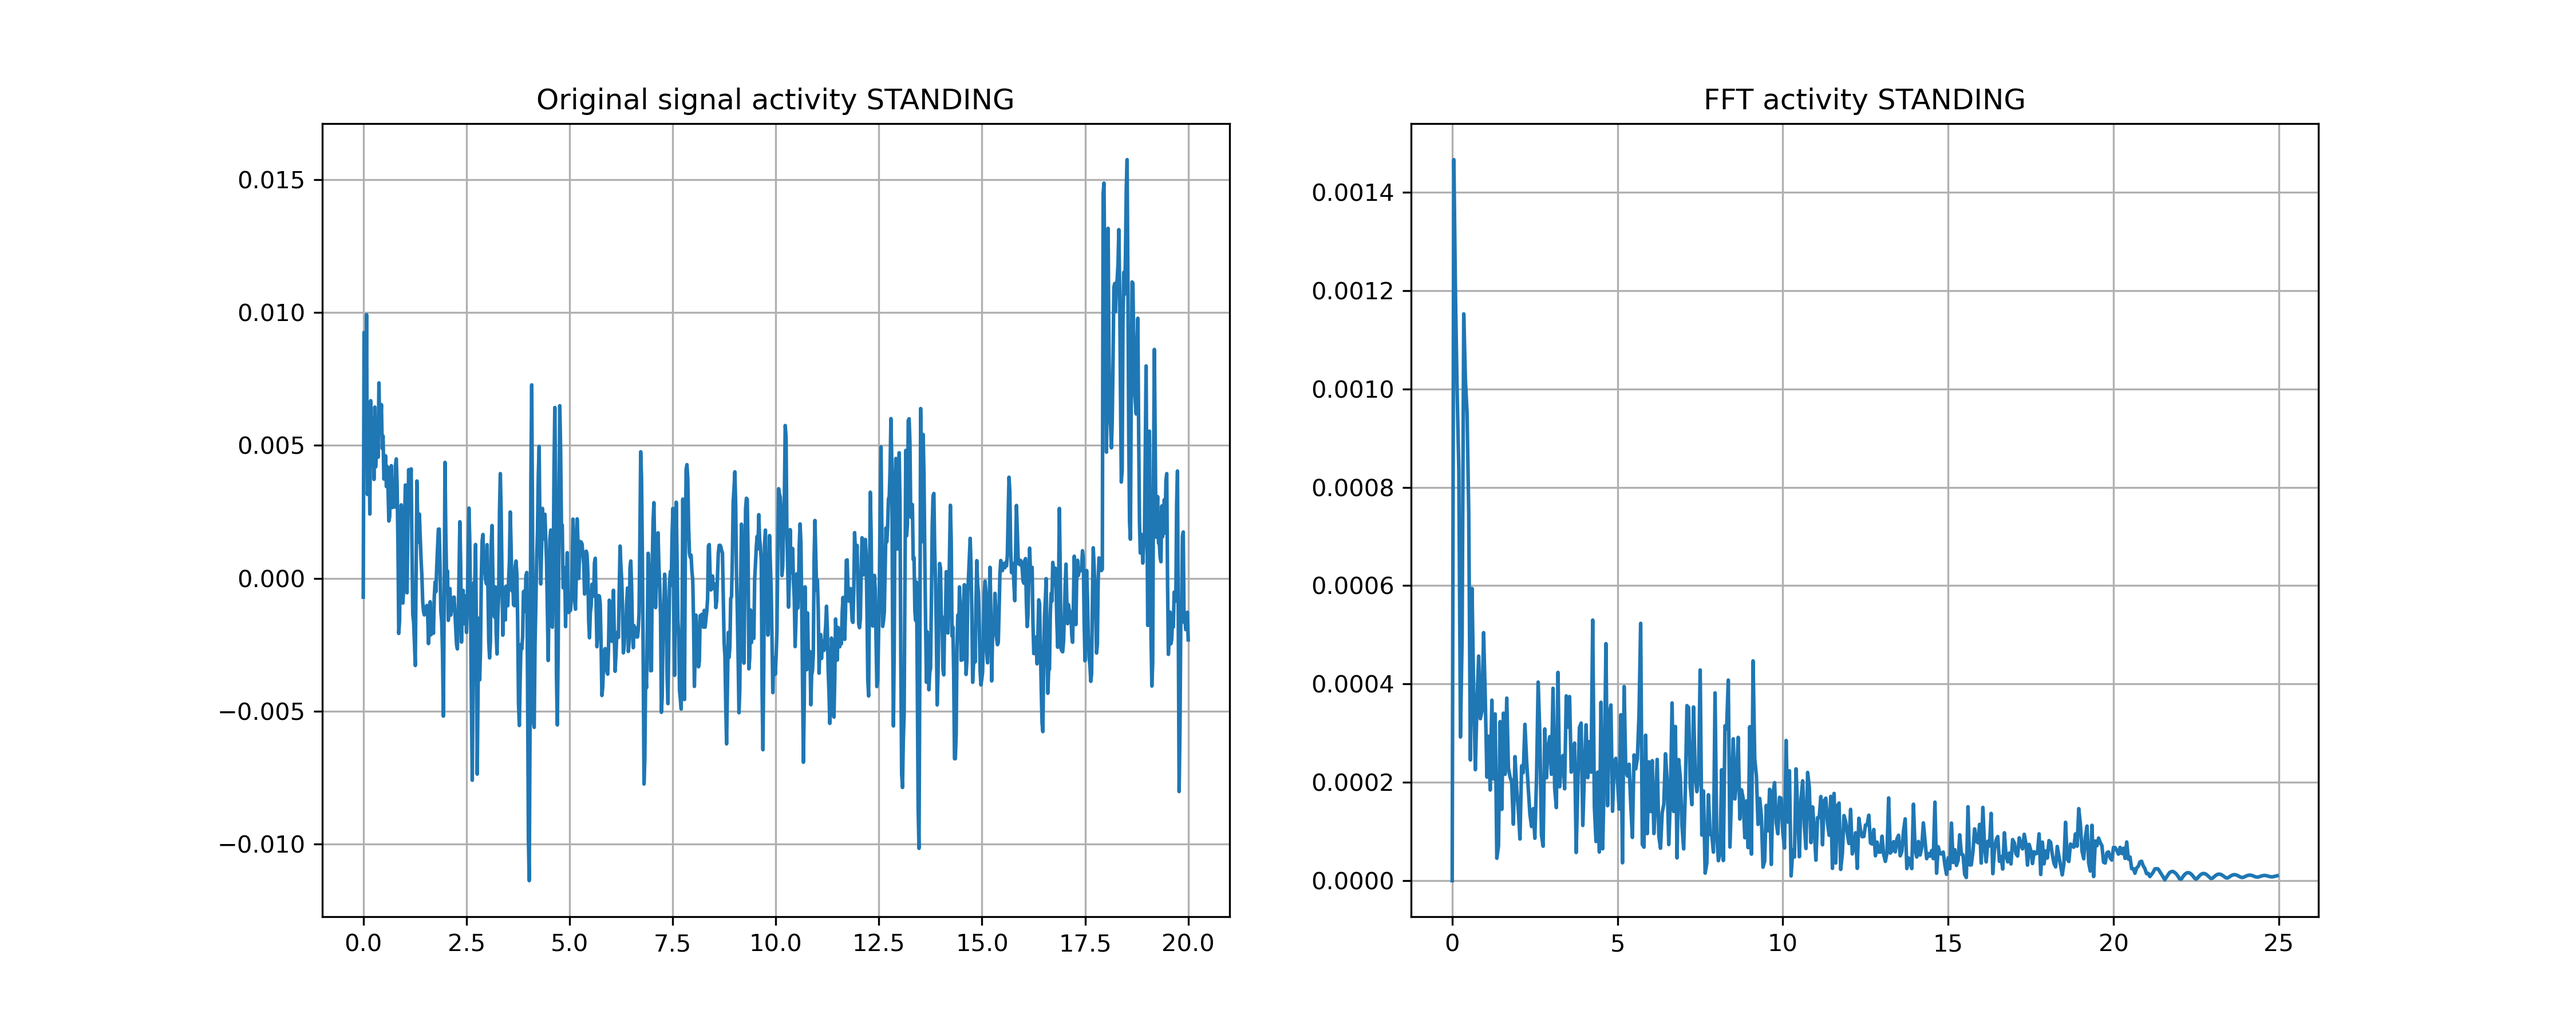
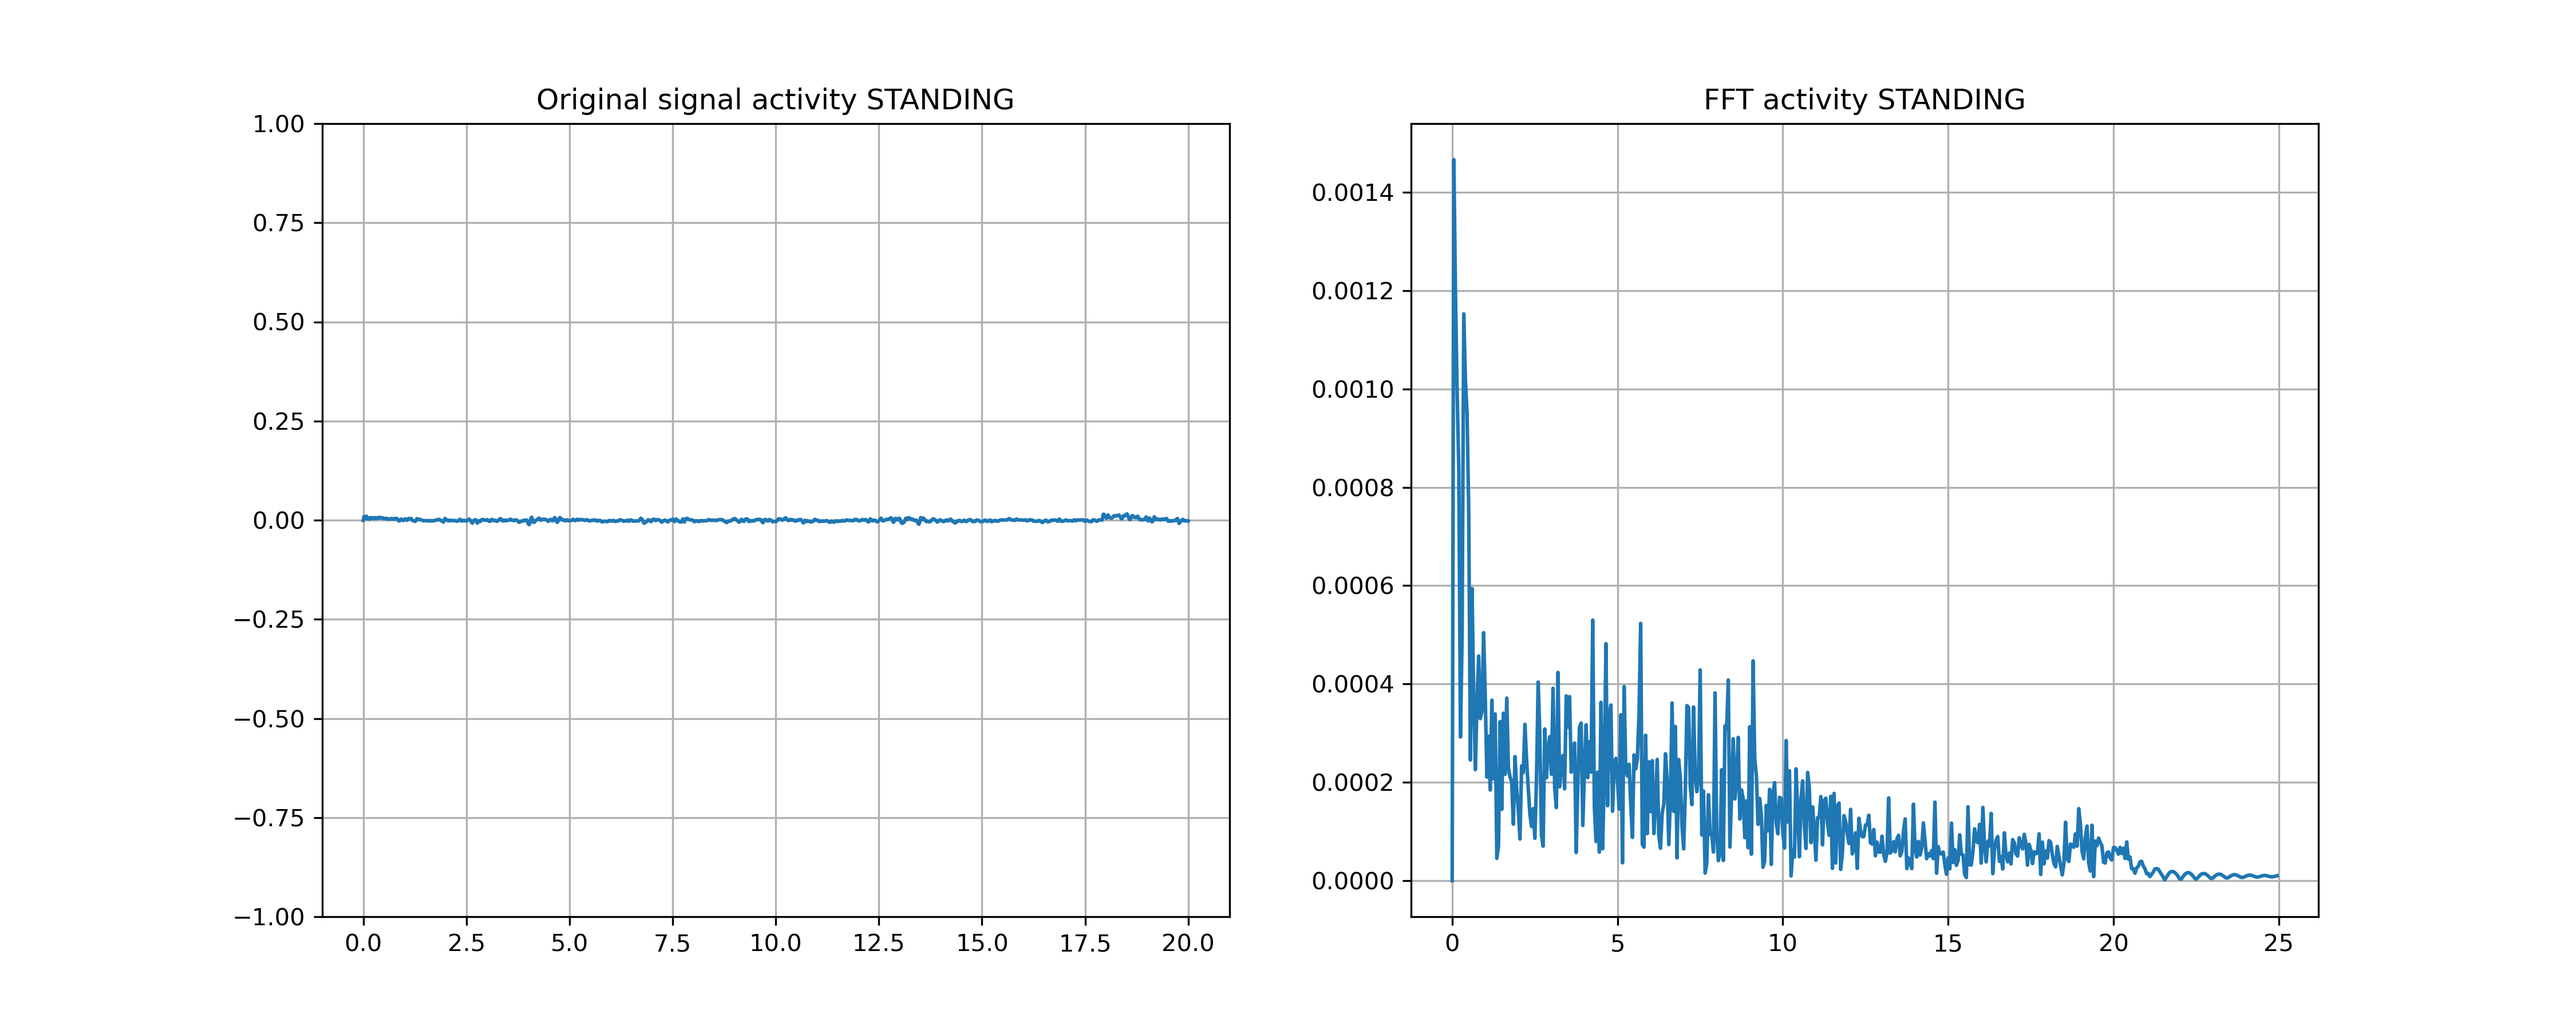
added 4.7

diff --git a/TS/4_456.py b/TS/4_456.py
@@ -3,6 +3,8 @@ import pandas as pd
 import matplotlib.pyplot as plt
 from scipy.stats import kurtosis as kurt
 from scipy.fftpack import fft
+from scipy.signal import butter
+from scipy.signal import lfilter
 
 print("[Loading data]")
 print()
@@ -106,7 +108,6 @@ print()
 ### 4.6
 print("[Exercise 4.6]")
 
-
 # Function to calculate the fft
 def calculate_fft(x, T):
     # x: list of signal points, T: sample time
@@ -136,11 +137,15 @@ for activity, signal in activities_and_signals.items():
     signal = signal - np.mean(signal)
     t = np.linspace(start=0, stop=T * np.size(signal), num=np.size(signal)) # create time axis
     f, y = calculate_fft(signal, T) # fourier transform
+
+    # Plot
     plt.figure(figsize=(15, 6))
     plt.subplot(1, 2, 1)
+    plt.plot(t, signal)  # original signal
     plt.grid(True)
     plt.title("Original signal activity %s" % activity)
-    plt.plot(t, signal)  # original signal
+    plt.ylim(-1, 1)
+
     plt.subplot(1, 2, 2)
     plt.plot(f, y)  # fft
     plt.grid(True)
@@ -148,4 +153,115 @@ for activity, signal in activities_and_signals.items():
     plt.savefig("figures/4.6_%s.png" % activity, dpi=300)
 
 print("[4.6: plots saved]")
+print()
+
+### 4.7
+print("[Exercise 4.7]")
+
+nsamples = 3000  # amount of samples to transform
+fn = fs/2  # nyquist frequency
+upper_limit = 3/fn  # upper limit cutoff frequency
+lower_limit = 0.6/fn  # lower limit cutoff frequency
+filter_order = 4  # order of the filters
+
+## Low-pass filter
+b_lp, a_lp = butter(filter_order, upper_limit, btype='lowpass', output='ba')
+i = 1
+
+plt.figure(figsize=(15, 6))
+for activity, signal in activities_and_signals.items():
+    signal = signal[0:nsamples]
+    signal = signal - np.mean(signal)
+    signal = lfilter(b_lp, a_lp, signal)
+    t = np.linspace(start=0, stop=T * np.size(signal), num=np.size(signal)) # create time axis
+    f, y = calculate_fft(signal, T) # fourier transform
+
+    # Plot filtered signal
+    plt.subplot(6, 2, i)
+    plt.grid(True)
+    plt.plot(t, signal, label=activity)  # original signal
+    plt.ylim(-1, 1)
+    plt.legend(loc="upper right")
+    if i == 1: plt.title("Low-pass filtered")
+    i +=1
+
+    # Plot frequency spectrum
+    plt.subplot(6, 2, i)
+    plt.plot(f, y, label=activity)  # fft
+    plt.grid(True)
+    plt.xlim(0, 3)
+    plt.legend(loc="upper right")
+    if i == 2: plt.title("FFT")
+    i+=1
+plt.tight_layout()
+plt.savefig("figures/4.7_lowpass.png", dpi=300)
+plt.close()
+
+## High-pass filter
+b_hp, a_hp = butter(filter_order, lower_limit, btype='highpass', output='ba')
+i = 1
+
+plt.figure(figsize=(15, 6))
+for activity, signal in activities_and_signals.items():
+    signal = signal[0:nsamples]
+    signal = signal - np.mean(signal)
+    signal = lfilter(b_hp, a_hp, signal)
+    t = np.linspace(start=0, stop=T * np.size(signal), num=np.size(signal)) # create time axis
+    f, y = calculate_fft(signal, T) # fourier transform
+
+    # Plot filtered signal
+    plt.subplot(6, 2, i)
+    plt.grid(True)
+    plt.plot(t, signal, label=activity)  # original signal
+    plt.ylim(-1, 1)
+    plt.legend(loc="upper right")
+    if i == 1: plt.title("High-pass filtered")
+    i += 1
+
+    # Plot frequency spectrum
+    plt.subplot(6, 2, i)
+    plt.plot(f, y, label=activity)  # fft
+    plt.grid(True)
+    plt.xlim(0, 3)
+    plt.legend(loc="upper right")
+    if i == 2: plt.title("FFT")
+    i+=1
+plt.tight_layout()
+plt.savefig("figures/4.7_highpass.png", dpi=300)
+plt.close()
+
+## Band-pass filter
+b_bp, a_bp = butter(filter_order, [lower_limit, upper_limit], btype='bandpass', output='ba')
+i=1
+
+plt.figure(figsize=(15, 6))
+for activity, signal in activities_and_signals.items():
+    signal = signal[0:nsamples]
+    signal = signal - np.mean(signal)
+    signal = lfilter(b_bp, a_bp, signal)
+    t = np.linspace(start=0, stop=T * np.size(signal), num=np.size(signal)) # create time axis
+    f, y = calculate_fft(signal, T) # fourier transform
+
+    # Plot filtered signal
+    plt.subplot(6, 2, i)
+    plt.grid(True)
+    plt.plot(t, signal, label=activity)  # original signal
+    plt.ylim(-1, 1)
+    plt.legend(loc="upper right")
+    if i == 1: plt.title("Band-pass filtered")
+    i += 1
+
+    # Plot frequency spectrum
+    plt.subplot(6, 2, i)
+    plt.plot(f, y, label=activity)  # fft
+    plt.grid(True)
+    plt.xlim(0, 3)
+    plt.legend(loc="upper right")
+    if i == 2: plt.title("FFT")
+    i += 1
+plt.tight_layout()
+plt.savefig("figures/4.7_bandpass.png", dpi=300)
+plt.close()
+
+print("[4.7: plots saved]")
 print()
